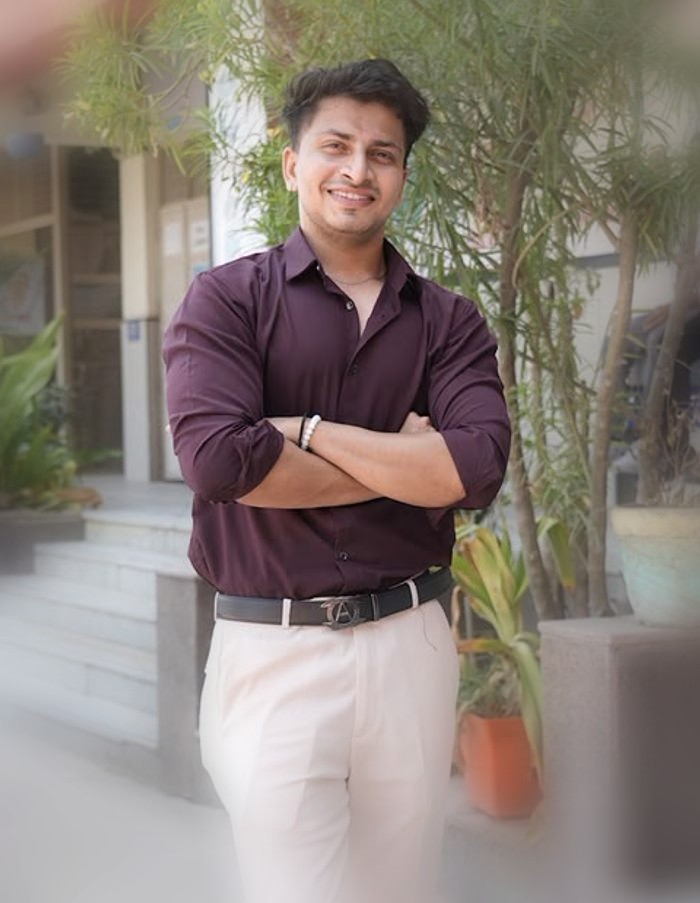
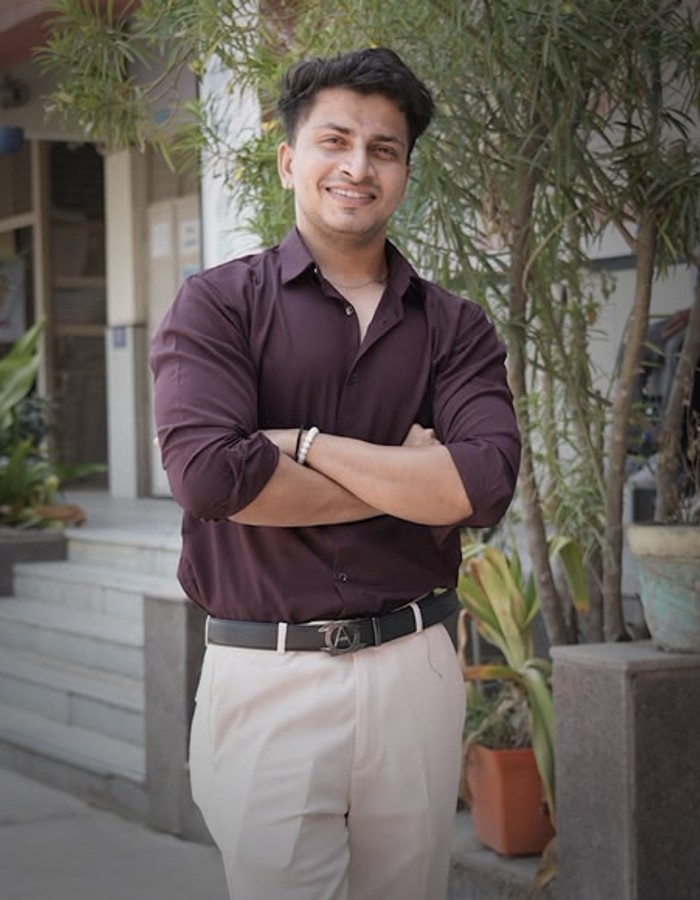
Fix hero photo treatment and remove redundant name repetition
Replace the depth-of-field blur composite (which clashed with the hard
frame border) with a straightforward tighter crop + vignette grade —
cleaner, no blur artifacts. Drop the "I'm Sachin Mehra" re-intro from the
supporting paragraph since the greeting and bold name already establish it.

diff --git a/content/profile.ts b/content/profile.ts
@@ -35,7 +35,7 @@ export const profile = {
     headline:
       "I build reliable enterprise software with .NET, Angular, and event-driven systems.",
     supporting:
-      "I'm Sachin Mehra, a software engineer with 4+ years of experience developing and modernizing enterprise applications using C#, ASP.NET Core, Angular, SQL Server, RabbitMQ, Docker, and clean architecture principles.",
+      "A software engineer with 4+ years of experience developing and modernizing enterprise applications using C#, ASP.NET Core, Angular, SQL Server, RabbitMQ, Docker, and clean architecture principles.",
     specializedIn: "Specialized in .NET, Angular, REST APIs, and event-driven systems.",
     statusChip: "Software Engineer @ Symplr",
     primaryCta: "View my work",
